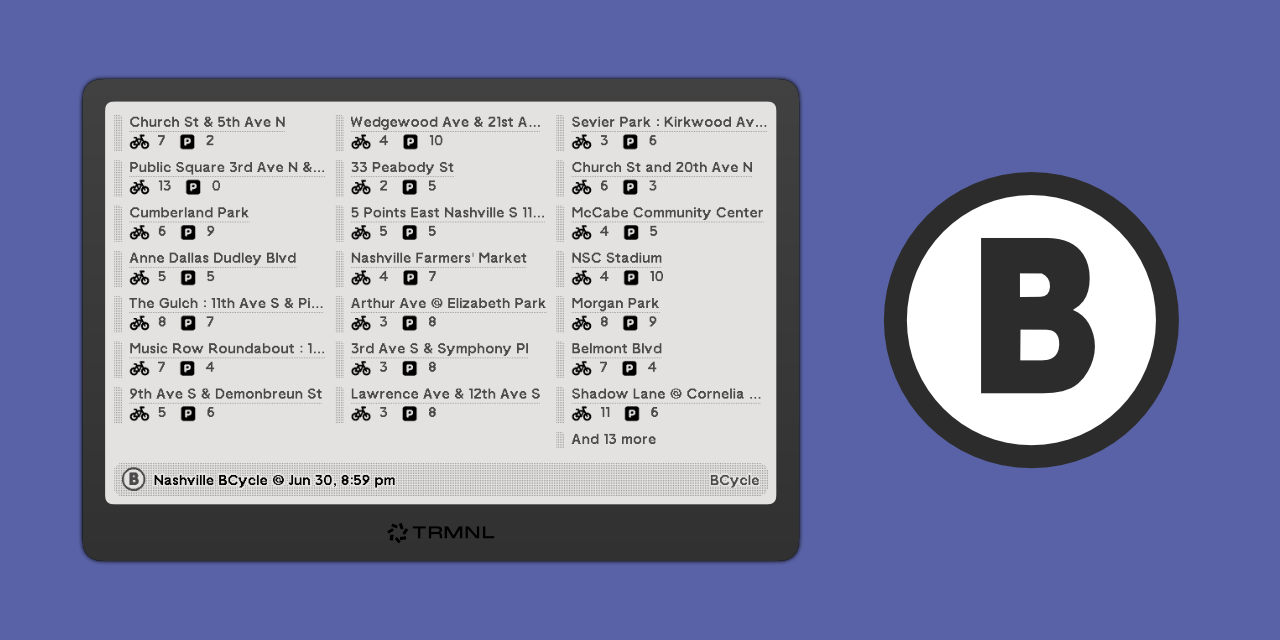
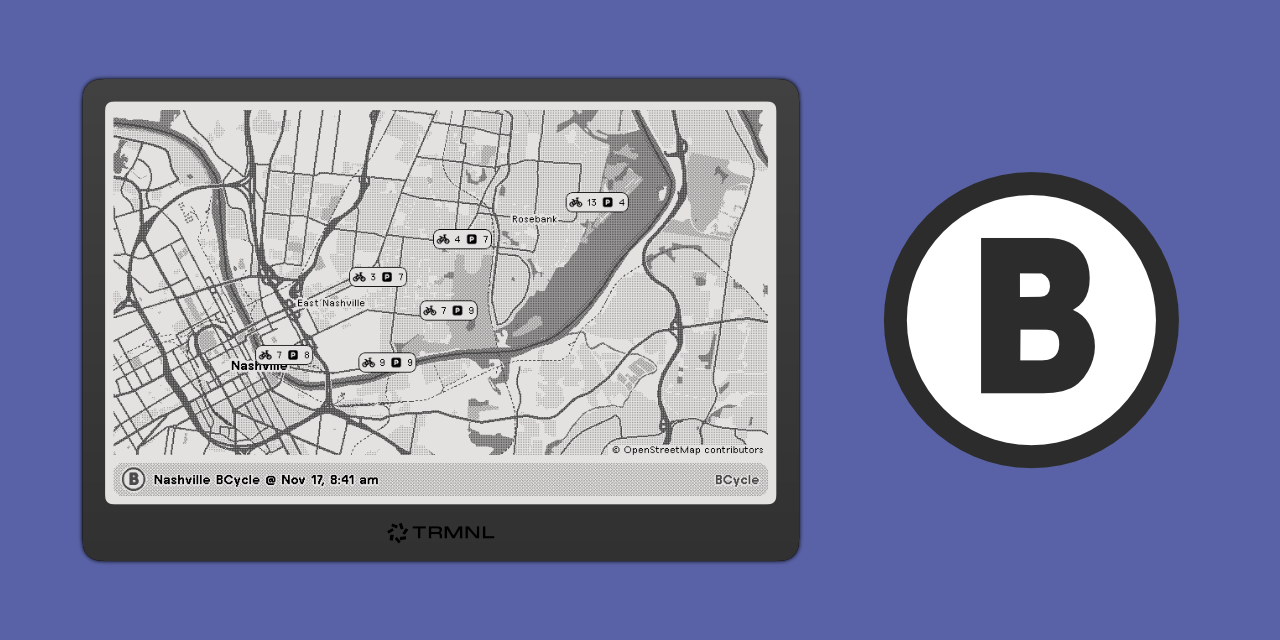
Adds map view

Changed region(s): [[0.0625, 0.1562, 0.625, 0.7812]]

diff --git a/src/transform.js b/src/transform.js
@@ -1,14 +1,25 @@
 function transform(input) {
   const MAX_TO_RETURN = 100;
   const { IDX_0, IDX_1, IDX_2, IDX_3, trmnl } = input;
-  const bcycle_station_region = trmnl?.plugin_settings?.custom_fields_values?.bcycle_station_region;
+  const fields = trmnl?.plugin_settings?.custom_fields_values || {};
+  const bcycle_station_region = fields.bcycle_station_region;
+  const stationIds = (fields.bcycle_station_ids || '')
+    .split(',')
+    .map((id) => id.trim())
+    .filter(Boolean);
 
   const statusById = Object.fromEntries(
     (IDX_3?.data?.stations || []).map((s) => [s.station_id, s])
   );
 
-  const stations = (IDX_2?.data?.stations || [])
-    .filter((station) => !bcycle_station_region || station.region_id === bcycle_station_region)
+  const allStations = IDX_2?.data?.stations || [];
+  const infoById = Object.fromEntries(allStations.map((s) => [s.station_id, s]));
+
+  const selected = stationIds.length
+    ? stationIds.map((id) => infoById[id]).filter(Boolean)
+    : allStations.filter((station) => !bcycle_station_region || station.region_id === bcycle_station_region);
+
+  const stations = selected
     .slice(0, MAX_TO_RETURN)
     .map((station) => {
       const status = statusById[station.station_id] || {};
@@ -16,6 +27,8 @@ function transform(input) {
         station_id: station.station_id,
         name: station.name,
         address: station.address,
+        lat: station.lat,
+        lon: station.lon,
         num_bikes_available: status.num_bikes_available,
         num_docks_available: status.num_docks_available,
         is_renting: status.is_renting,
